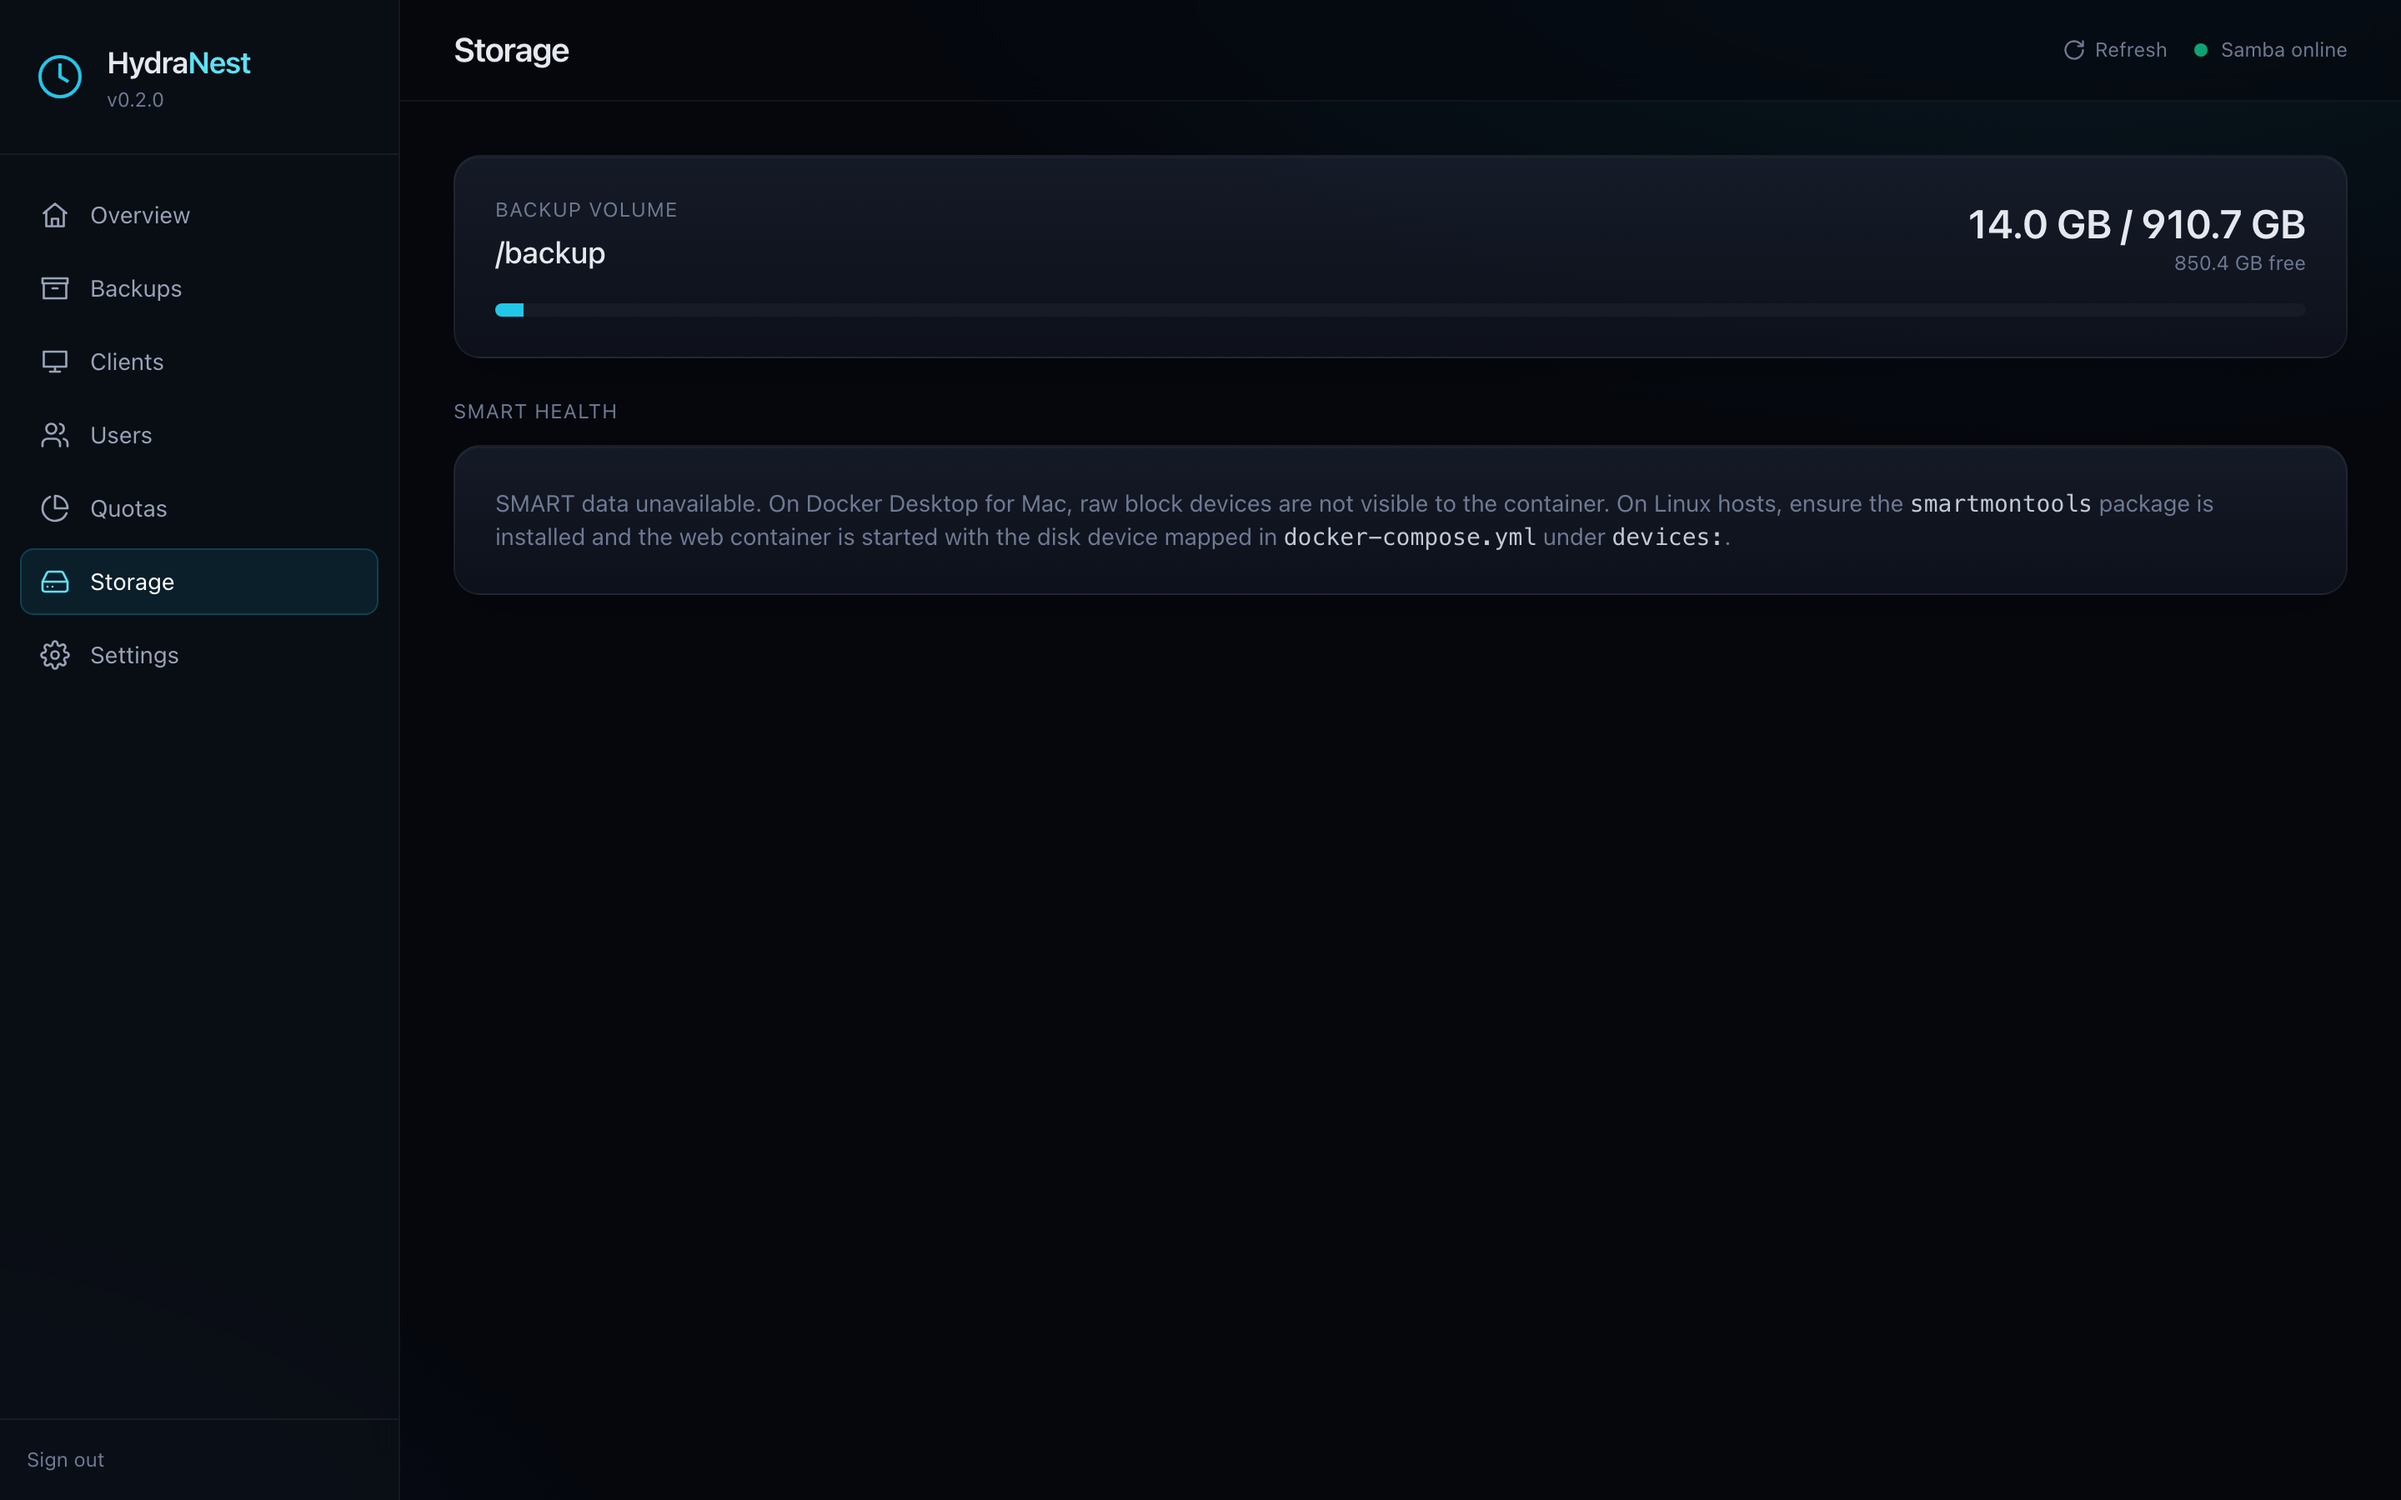
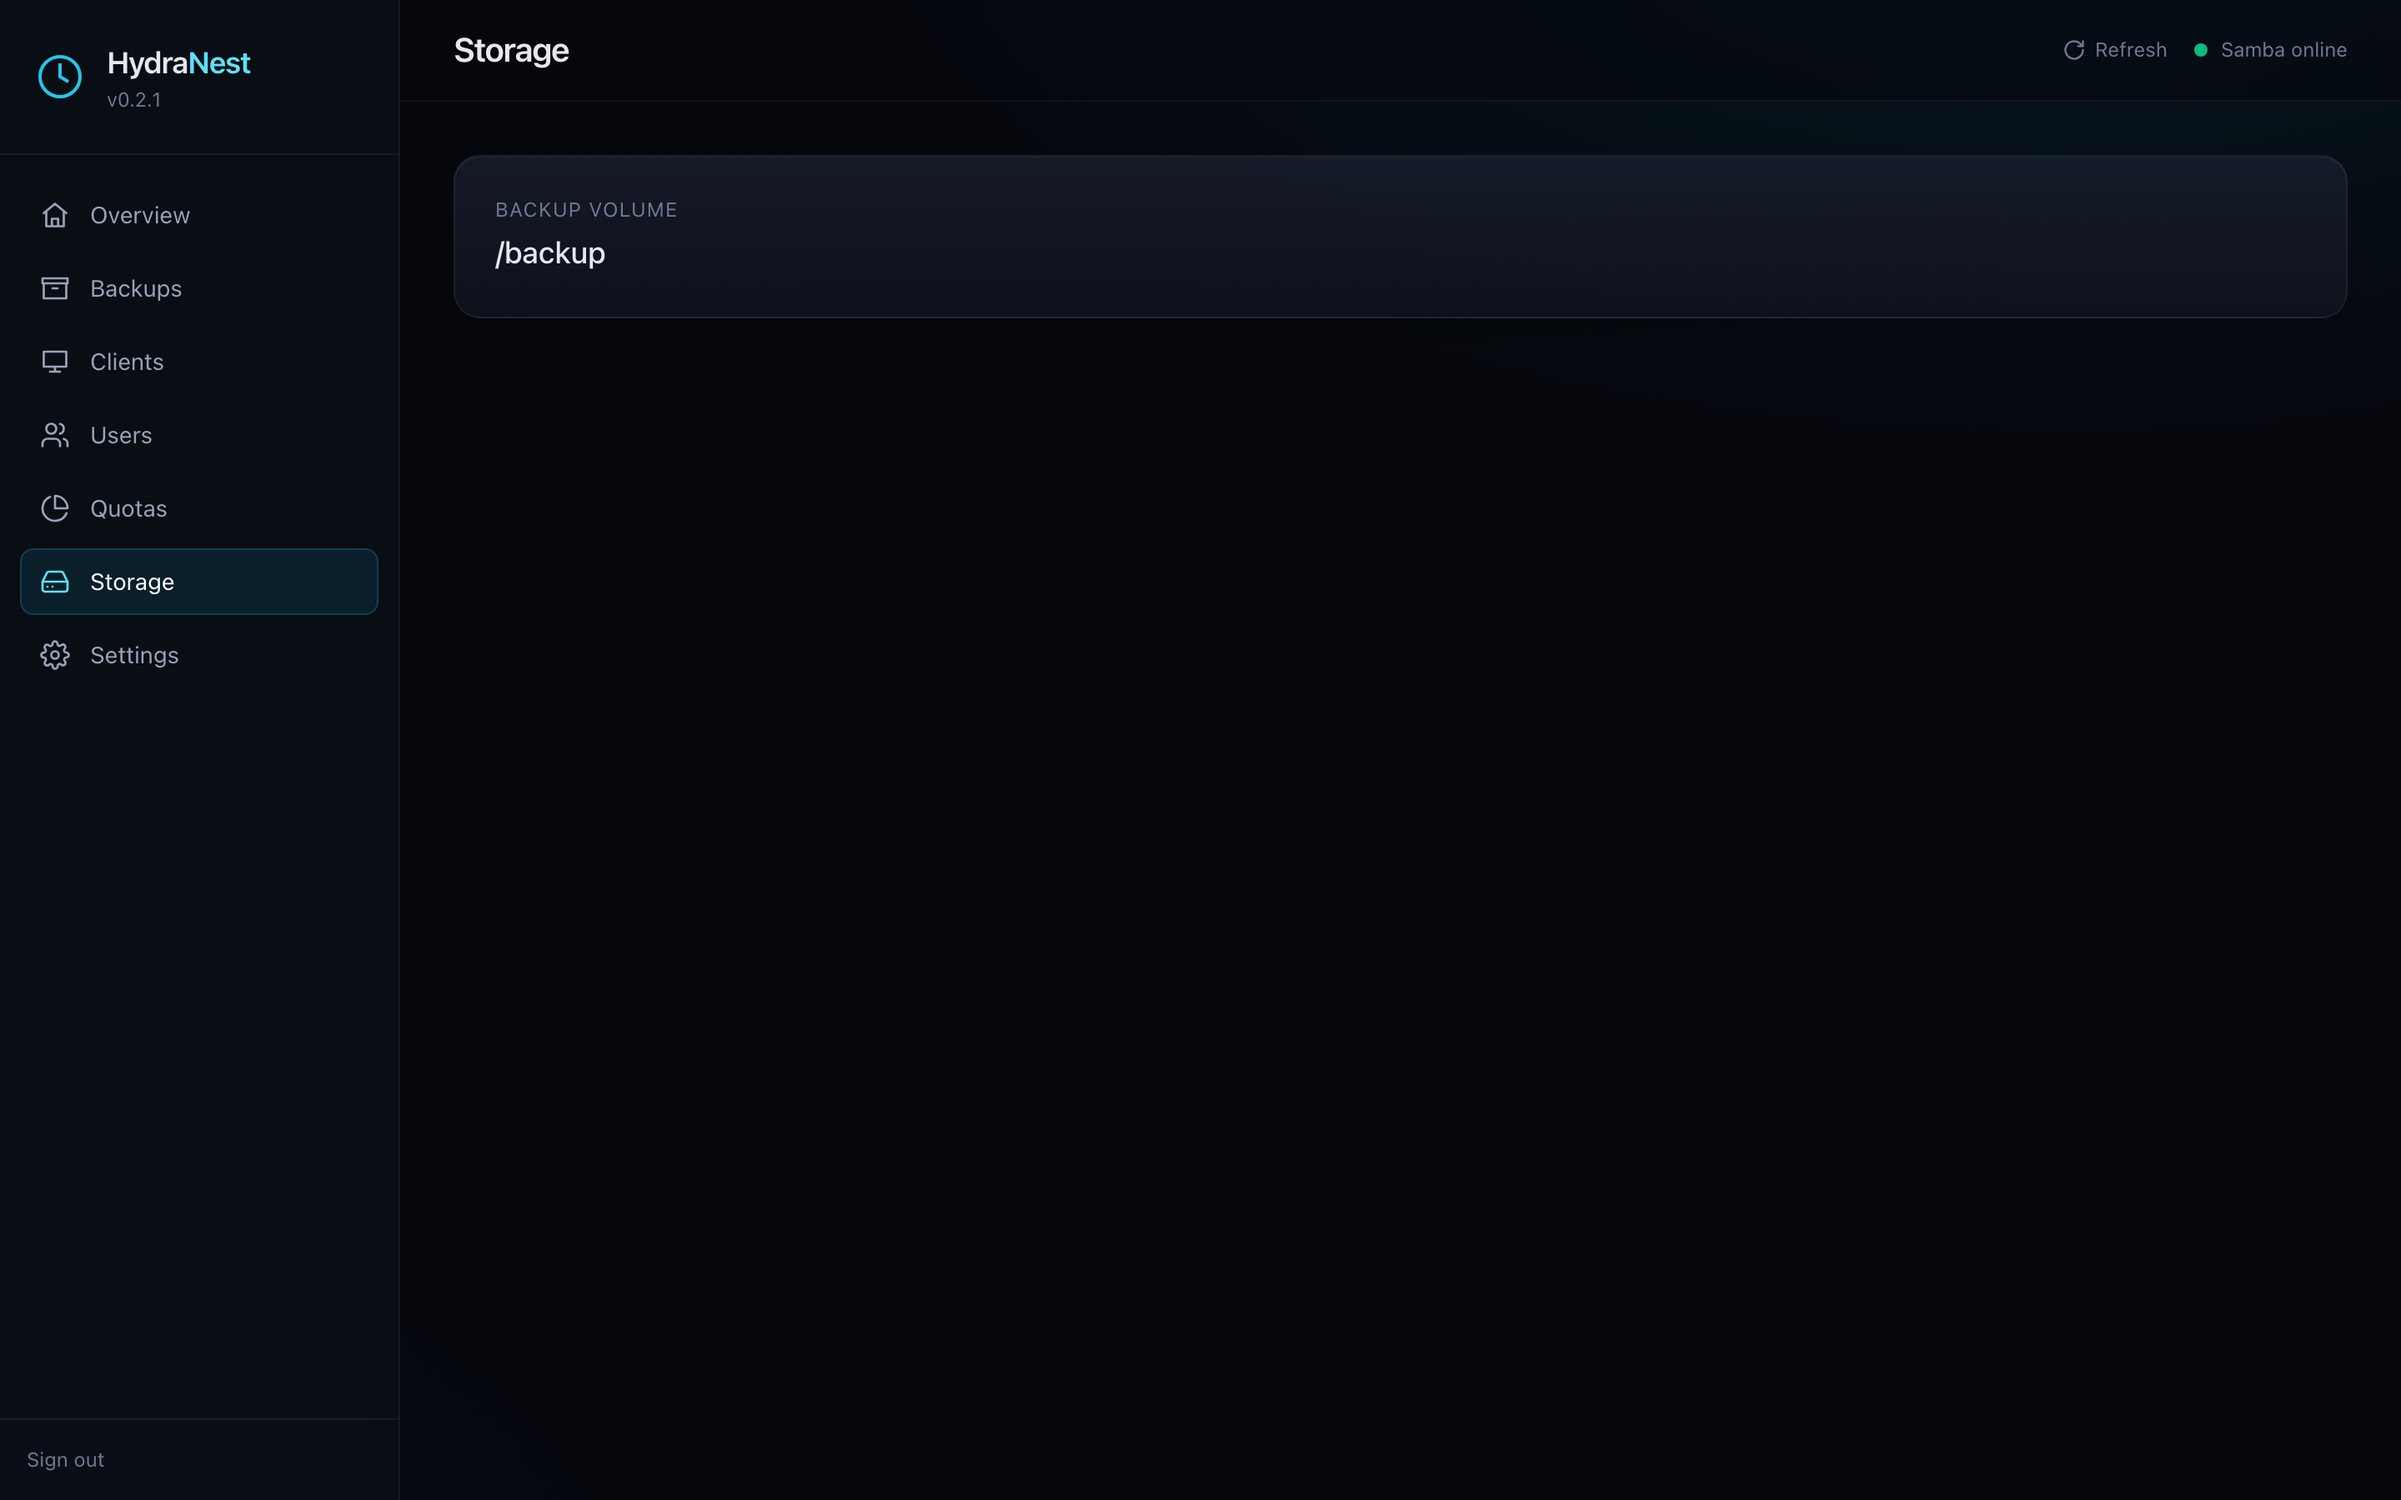
web: hide SMART section when no physical disk is visible (v0.2.1)

Changed region(s): [[0.1875, 0.2489, 0.9688, 0.3733], [0.8125, 0.1244, 0.9688, 0.1867], [0.1875, 0.1867, 0.2188, 0.2178]]

diff --git a/web/app/templates/disks.html b/web/app/templates/disks.html
@@ -25,9 +25,11 @@
     {% endif %}
 </div>
 
+{# SMART is only shown when a physical disk is visible to the container;
+   on Proxmox/VM setups the host monitors the disk instead. #}
+{% if smart %}
 <div class="mt-6">
     <div class="text-xs uppercase tracking-wider text-ink-400 mb-3">SMART health</div>
-    {% if smart %}
     <div class="grid grid-cols-1 md:grid-cols-2 gap-4">
     {% for s in smart %}
         <div class="hn-card p-5">
@@ -59,16 +61,7 @@
         </div>
     {% endfor %}
     </div>
-    {% else %}
-    <div class="hn-card p-6 text-sm text-ink-400">
-        SMART data unavailable. On Docker Desktop for Mac, raw block devices
-        are not visible to the container. On Linux hosts, ensure the
-        <code class="text-ink-200">smartmontools</code> package is installed
-        and the web container is started with the disk device mapped in
-        <code class="text-ink-200">docker-compose.yml</code> under
-        <code class="text-ink-200">devices:</code>.
-    </div>
-    {% endif %}
 </div>
+{% endif %}
 
 {% endblock %}

diff --git a/web/app/__init__.py b/web/app/__init__.py
@@ -1,2 +1,2 @@
 """TimeNest web UI package."""
-__version__ = "0.2.0"
+__version__ = "0.2.1"

diff --git a/README.md b/README.md
@@ -139,7 +139,7 @@ If the server doesn't appear, in Finder use **Go -> Connect to Server**
 | **Clients** | Every Mac: online/offline, IP, last seen, last backup, status (up to date, backing up, overdue) |
 | **Users** | Create, edit (quota and password), remove |
 | **Quotas** | Usage bar per user, free space, inline quota edit, warning when quotas exceed the disk |
-| **Storage** | Backup volume usage and SMART health |
+| **Storage** | Backup volume usage (plus SMART health when the container can see the physical disk; on Proxmox check it from the host) |
 | **Settings** | Current configuration and Prometheus target |
 
 All data is real: Mac name and model come from the Time Machine bundle

diff --git a/CHANGELOG.md b/CHANGELOG.md
@@ -4,6 +4,14 @@ HydraNest è un fork di [momenbasel/timenest](https://github.com/momenbasel/time
 (server Time Machine su Samba + Avahi + Web UI) con le correzioni emerse
 installandolo su Proxmox + Portainer.
 
+## v0.2.1 — 2026-10-08
+
+### Web UI
+- Storage: la sezione SMART viene nascosta quando il container non vede un
+  disco fisico (caso tipico su Proxmox/VM, dove la salute del disco si
+  controlla dall'host). Rimosso il vecchio messaggio "SMART data
+  unavailable" che parlava di Docker Desktop for Mac.
+
 ## v0.2.0 — 2026-10-08
 
 ### Web UI — nuove pagine in stile mockup
